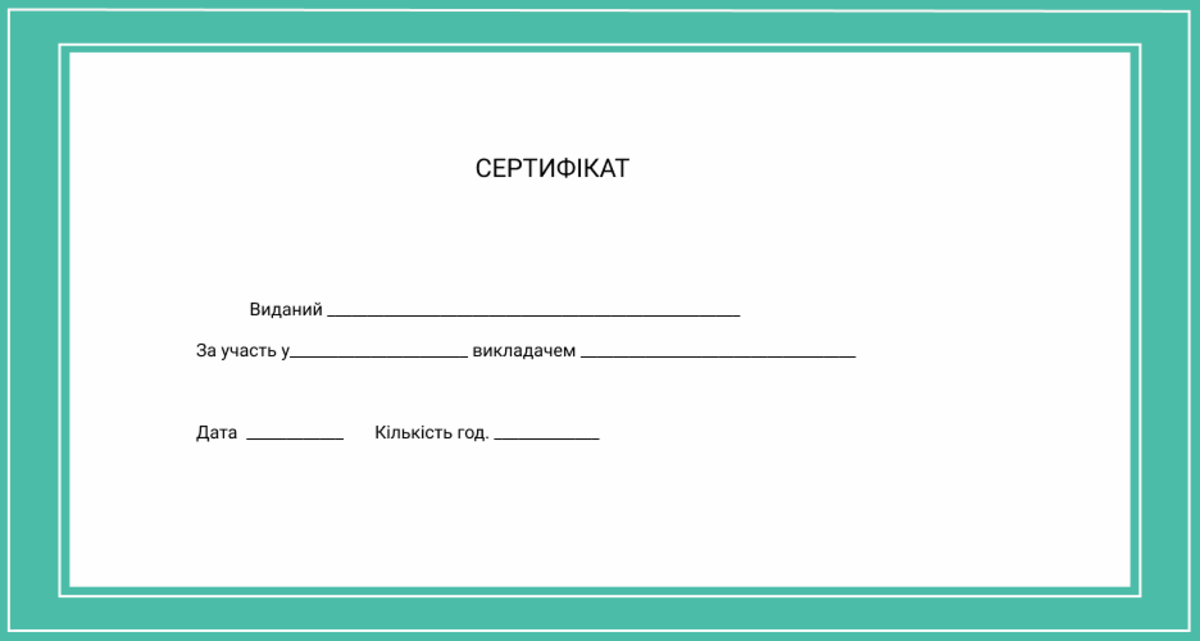
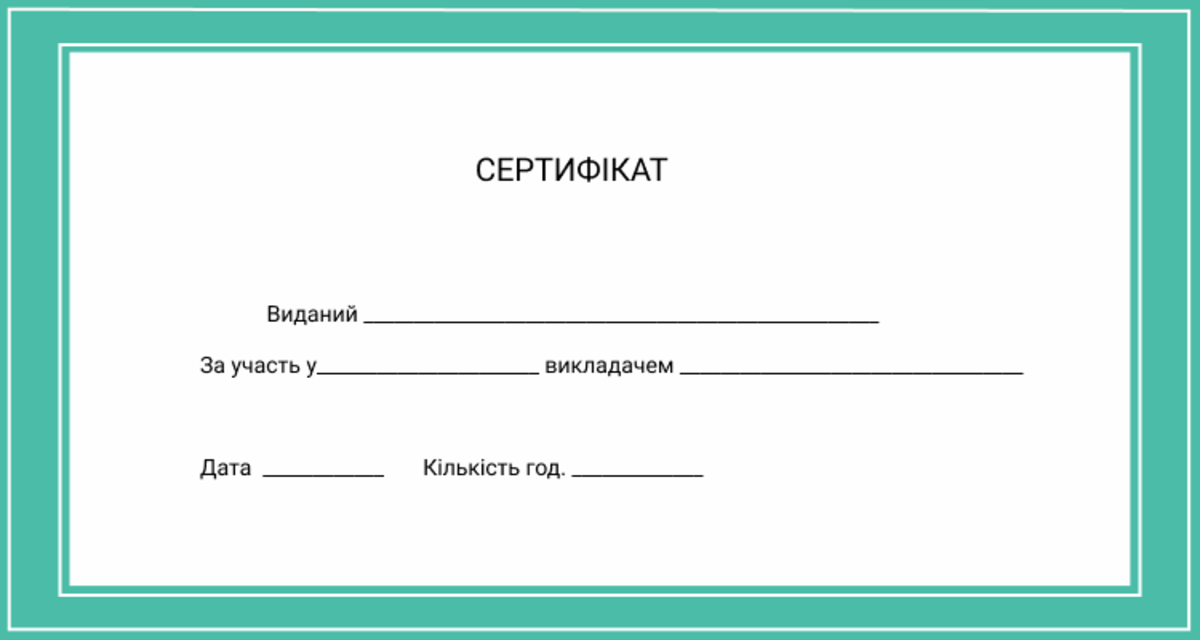
functional

diff --git a/src/index.html b/src/index.html
@@ -34,16 +34,16 @@
               <div id="error-message"></div>
               <h2 class="card-title text-white">Введіть свої дані</h2>
               <div class="form-group row">
-                <label for="title" class="col-form-label">Назва заходу:</label>
+                <label for="title" class="col-form-label">Назва заходу(участь у):</label>
                 <input type="text" id="title" class="form-control" />
 
-                <label for="duration" class="col-form-label">Тривалість:</label>
+                <label for="duration" class="col-form-label">Тривалість(години):</label>
                 <input type="number" min="1" id="duration" class="form-control" />
 
                 <label for="surname-teacher" class="col-form-label">Прізвище та ініцали викладача:</label>
                 <input type="text" id="surname-teacher" class="form-control" />
 
-                <label for="surname-student" class="col-form-label">Прізвище та ініціали учня:</label>
+                <label for="surname-student" class="col-form-label">Прізвище та ініціали учня(кому):</label>
                 <input type="text" id="surname-student" class="form-control" />
               </div>
               <div class="card-footer">
@@ -58,32 +58,32 @@
             <div class="slider single-item">
               <div>
                 <div class="image">
-                  <img src="img/template1.png" data-src="img/template1.png"/>
+                  <img src="img/template1.png" data-src="img/template1.png" data-class="template1"/>
                 </div>
               </div>
               <div>
                 <div class="image">
-                  <img src="img/template2.png" data-src="img/template2.png"/>
+                  <img src="img/template2.png" data-src="img/template2.png" data-class="template2"/>
                 </div>
               </div>
               <div>
                 <div class="image">
-                  <img src="img/template3.png" data-src="img/template3.png"/>
+                  <img src="img/template3.png" data-src="img/template3.png" data-class="template3"/>
                 </div>
               </div>
               <div>
                 <div class="image">
-                  <img src="img/template4.png" data-src="img/template4.png"/>
+                  <img src="img/template4.png" data-src="img/template4.png" data-class="template4"/>
                 </div>
               </div>
               <div>
                 <div class="image">
-                  <img src="img/template5.png" data-src="img/template5.png"/>
+                  <img src="img/template5.png" data-src="img/template5.png" data-class="template5"/>
                 </div>
               </div>
               <div>
                 <div class="image">
-                  <img src="img/template6.png" data-src="img/template6.png"/>
+                  <img src="img/template6.png" data-src="img/template6.png" data-class="template6"/>
                 </div>
               </div>
             </div>
@@ -93,7 +93,14 @@
     </div>
     <div id="container-preview">
       <h2 class="card-title text-white">Готовий сертифікат</h2>
-      <div class="selected-image"></div>
+      <div id="template" class="">
+        <div class="selected-image"></div>
+        <div class="student-temp"></div>
+        <div class="title-temp"></div>
+        <div class="teacher-temp"></div>
+        <div class="date-temp"></div>
+        <div class="duration-temp"></div>
+      </div>
       <div class="button-container">
         <button id="print" class="button">Друкувати</button>
         <button id="export" class="button">Експорт в PDF</button>

diff --git a/src/style.css b/src/style.css
@@ -23,7 +23,6 @@ header {
   text-align: left;
   font-weight: 500;
   color: #fff;
-  font-family: "Roboto", sans-serif;
   font-size: 18px;
 }
 
@@ -181,4 +180,203 @@ header {
 
 .email a:hover, .phone a:hover {
   color: #fff;
+}
+
+#template{
+  color: #000;
+  font-family: "Roboto", sans-serif;
+  position: relative;
+  display: inline-block;
+}
+
+#template .student-temp {
+  font-size: 2vw;
+}
+
+#template .teacher-temp, .title-temp {
+  font-size: 1.5vw
+}
+
+#template  .date-temp, .duration-temp{
+  font-size: 1vw;
+}
+
+.template1 .student-temp {
+  position: absolute;
+  left: 48%;
+  bottom: 49%;
+}
+
+.template1 .title-temp{
+  position: absolute;
+  left: 40%;
+  bottom: 41%;
+}
+
+.template1 .teacher-temp{
+  position: absolute;
+  left: 68%;
+  bottom: 41%;
+}
+
+.template1 .date-temp{
+  position: absolute;
+  left: 33%;
+  bottom: 25%;
+}
+
+.template1 .duration-temp{
+  position: absolute;
+  left: 57%;
+  bottom: 25%;
+}
+
+.template2 .student-temp {
+  position: absolute;
+  left: 38%;
+  bottom: 49%;
+}
+
+.template2 .title-temp{
+  position: absolute;
+  left: 31%;
+  bottom: 41%;
+}
+
+.template2 .teacher-temp{
+  position: absolute;
+  left: 57%;
+  bottom: 41%;
+}
+
+.template2 .date-temp{
+  position: absolute;
+  left: 22%;
+  bottom: 25%;
+}
+
+.template2 .duration-temp{
+  position: absolute;
+  left: 49%;
+  bottom: 25%;
+}
+
+.template3 .student-temp {
+  position: absolute;
+  left: 34%;
+  bottom: 49%;
+}
+
+.template3 .title-temp{
+  position: absolute;
+  left: 28%;
+  bottom: 41%;
+}
+
+.template3 .teacher-temp{
+  position: absolute;
+  left: 60%;
+  bottom: 41%;
+}
+
+.template3 .date-temp{
+  position: absolute;
+  left: 47%;
+  bottom: 25%;
+}
+
+.template3 .duration-temp{
+  position: absolute;
+  left: 76%;
+  bottom: 25%;
+}
+
+.template4 .student-temp {
+  position: absolute;
+  left: 48%;
+  bottom: 49%;
+}
+
+.template4 .title-temp{
+  position: absolute;
+  left: 45%;
+  bottom: 41%;
+}
+
+.template4 .teacher-temp{
+  position: absolute;
+  left: 68%;
+  bottom: 41%;
+}
+
+.template4 .date-temp{
+  position: absolute;
+  left: 33%;
+  bottom: 25%;
+}
+
+.template4 .duration-temp{
+  position: absolute;
+  left: 54%;
+  bottom: 25%;
+}
+
+.template5 .student-temp {
+  position: absolute;
+  left: 38%;
+  bottom: 49%;
+}
+
+.template5 .title-temp{
+  position: absolute;
+  left: 31%;
+  bottom: 41%;
+}
+
+.template5 .teacher-temp{
+  position: absolute;
+  left: 57%;
+  bottom: 41%;
+}
+
+.template5 .date-temp{
+  position: absolute;
+  left: 51%;
+  bottom: 25%;
+}
+
+.template5 .duration-temp{
+  position: absolute;
+  left: 71%;
+  bottom: 25%;
+}
+
+.template6 .student-temp {
+  position: absolute;
+  left: 38%;
+  bottom: 49%;
+}
+
+.template6 .title-temp{
+  position: absolute;
+  left: 34%;
+  bottom: 41%;
+}
+
+.template6 .teacher-temp{
+  position: absolute;
+  left: 57%;
+  bottom: 41%;
+}
+
+.template6 .date-temp{
+  position: absolute;
+  left: 22%;
+  bottom: 25%;
+}
+
+.template6 .duration-temp{
+  position: absolute;
+  left: 44%;
+  bottom: 25%;
 }

diff --git a/src/script.js b/src/script.js
@@ -13,11 +13,13 @@ $(".single-item").slick({
       if (event.target.tagName === 'IMG') {
           const src = event.target.dataset.src;
           selectedImage.innerHTML = `<img src="${src}" />`;
+          document.getElementById("template").className=event.target.dataset.class;
       }
   });
 
 
   function validateForm() {
+    const date = new Date().toLocaleDateString('en-GB');
     const title = document.getElementById("title").value.trim();
     const duration = document.getElementById("duration").value.trim();
     const surnameTeacher = document.getElementById("surname-teacher").value.trim();
@@ -34,14 +36,22 @@ $(".single-item").slick({
       return false;
     }
 
-    return true;
+    return {surnameStudent, title, surnameTeacher, date, duration};
   }
 
   const createButton = document.getElementById("create");
   createButton.addEventListener("click", function (event) {
     event.preventDefault();
-    if (validateForm()) {
-      document.getElementById("form").submit();
+    const data = validateForm();
+    console.log(data)
+    if (data) {
+      document.getElementsByClassName("student-temp")[0].innerText=data.surnameStudent;
+      document.getElementsByClassName("title-temp")[0].innerText=data.title;
+      document.getElementsByClassName("teacher-temp")[0].innerText=data.surnameTeacher;
+      document.getElementsByClassName("date-temp")[0].innerText = data.date;
+      document.getElementsByClassName("duration-temp")[0].innerText=data.duration;
+      
+      //document.getElementById("form").submit();
     }
   });
 
